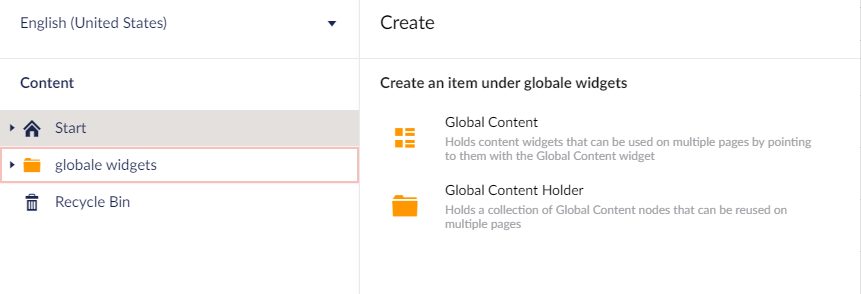
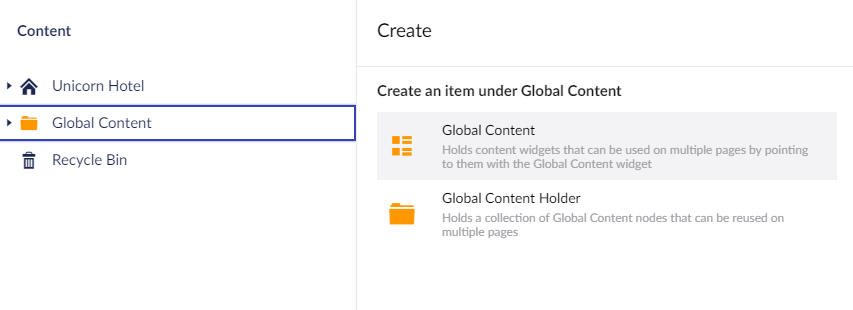
Proofread global content

diff --git a/Umbraco-StarterKit/Uno-pedia/Content-Types/Global-Content/index.md b/Umbraco-StarterKit/Uno-pedia/Content-Types/Global-Content/index.md
@@ -4,18 +4,18 @@ versionFrom: 8.0.0
 
 # The Global Content
 
-This node lets you create the widgets that you will then later be able to use in The Global Content Widget.
+This node lets you create the widgets that you will then later be able to use in the [Global Content Widget](../../Widgets/Global-Content).
 When you have created a widget here it will work as a template in the future, so that you will only have to set it up once, saving you a lot of time in the future.
 
 Setting your widgets up with this feature ensures that every time you make a new page, you can get the same design on each page.
-All you will need to do is add them in the Global Content Widget, making it straight forward to keep the same design on all of your pages.
+All you will need to do is add them in the Global Content widget, making it straight forward to keep the same design on all of your pages.
 
 ## Setting up Global Content
 
 ![movePage.jpg](images/Globale-Widget.png)
 
 - From the Content tree on the left, hover over Content
-- Then click the `...` and select Global Content Holder - this will serve as a folder for your Global Content
+- Then click the `...` and select *Global Content Holder* - this will serve as a folder for your Global Content
 - Name the folder anything that makes sense to your setup
 - Then hover the folder, and click the `...`
 - Here you will have two options: the first one is Global Content, the second one is the Global Content Holder
@@ -28,16 +28,17 @@ All you will need to do is add them in the Global Content Widget, making it stra
 
 If you Selected Global Content, follow these steps to create widgets:
 
-- When you press Add Content a window will pop up where you can select what widget you want to work with (you can select multiple widgets)
+- When you press **Add Content** a window will pop up where you can select what widget you want to work with (you can select multiple widgets)
 - Select and configure the widget(s) you want to use
 - You set them up like you would do normally, the only difference here is that they will be marked as Global Content
+
 Doing this, you will now have a set of pre-setup widgets, which you can then use on multiple pages of your site.
 
-Learn more about how to use the Global Content on your pages in the section about the [Global Content Widget](../../Widgets/index.md#the-global-content-widget).
+Learn more about how to use the Global Content on your pages in the section about the [Global Content Widget](../../Widgets/Global-Content).
 
 ### Global Content Holder
 
 Now for your second option regarding Global Content, which is the Global Content Holder. This gives you the option to create another folder, if you want to structure your Global Content further.
-this is the Global Content Holder, Which gives you the option to create a folder, this is for storing your global content.
+This is the Global Content Holder, which gives you the option to create a folder. Think of this as a way of storing your Global content.
 
 You can even choose to make another folder within your folder.
